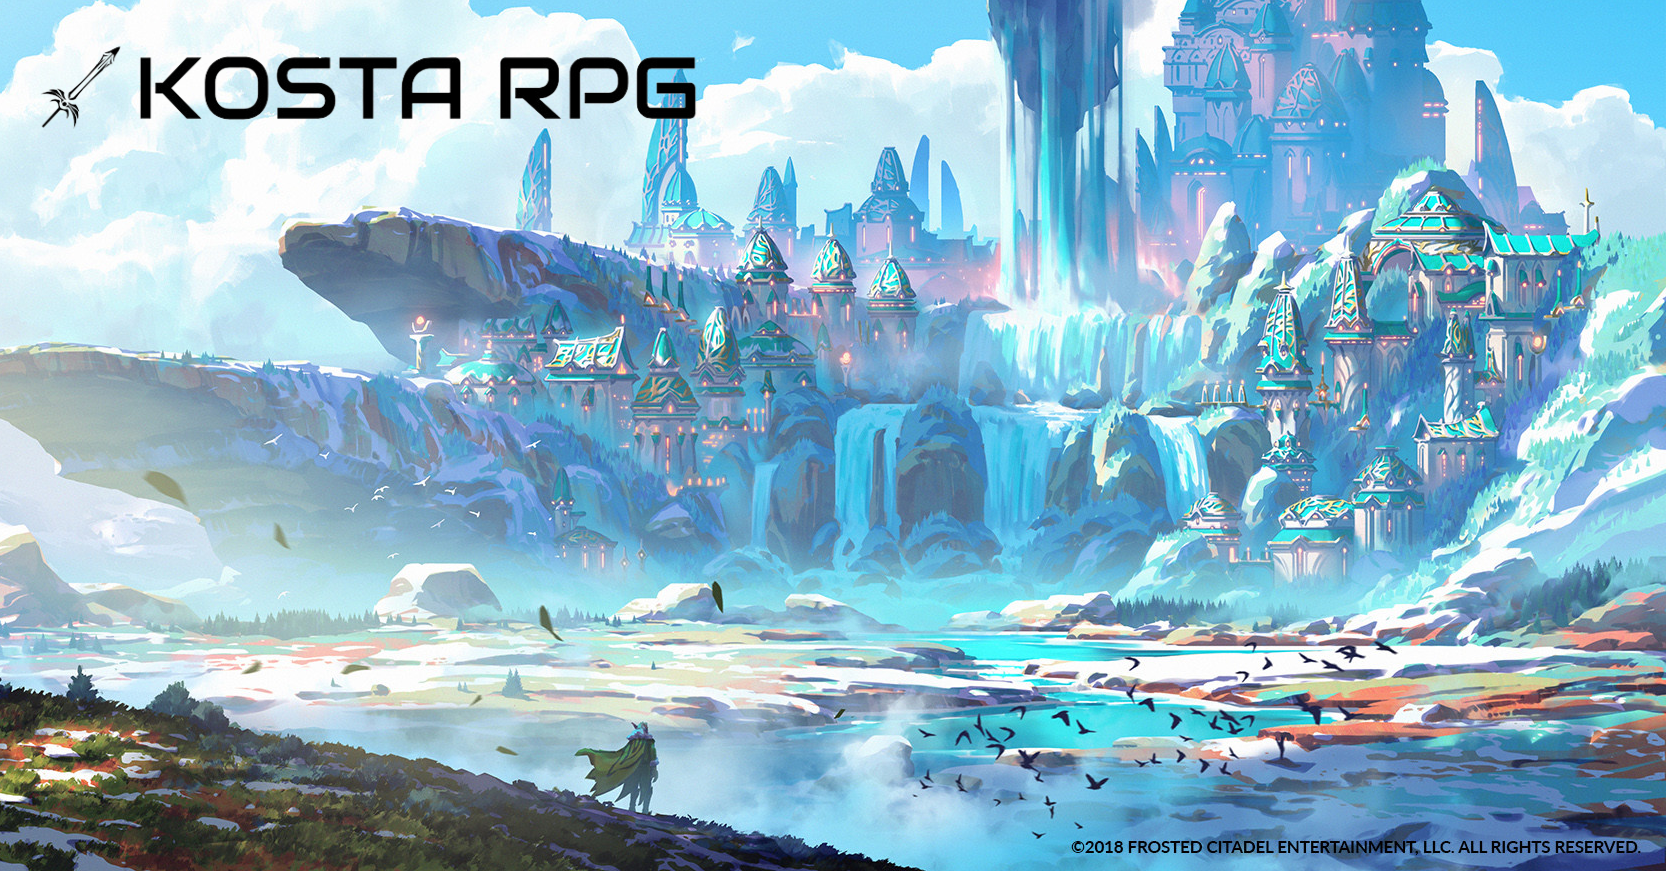
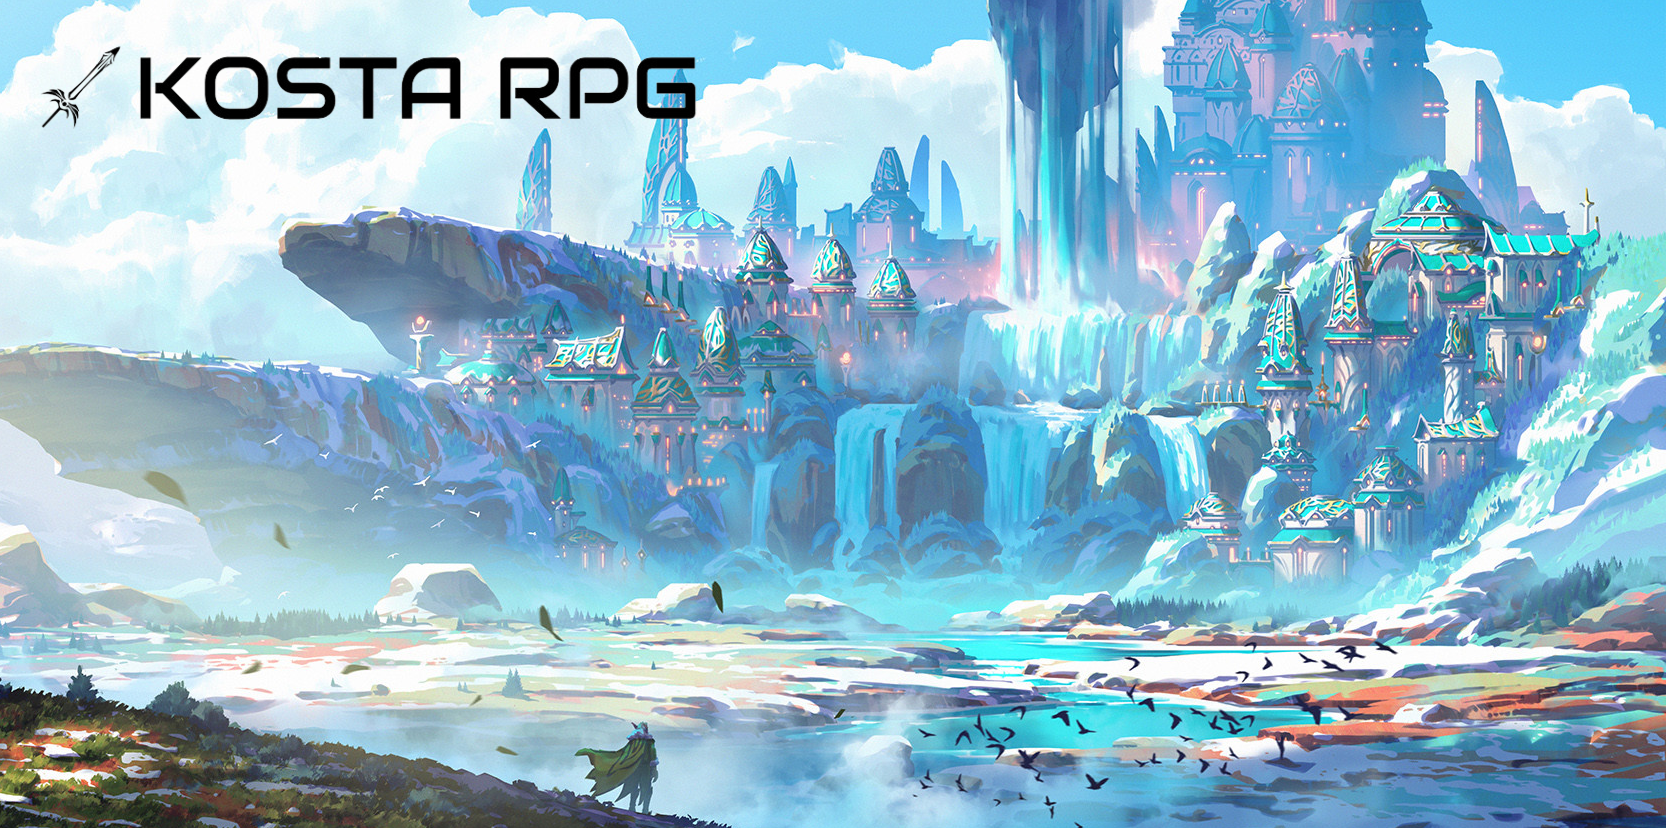
#1. 메인배너 사진 교체 및 크기조정

diff --git a/Kosta277_Team03_01/src/프로젝트 UI구현/main.html b/Kosta277_Team03_01/src/프로젝트 UI구현/main.html
@@ -4,19 +4,24 @@
   <meta name="viewport" content="width=device-width, initial-scale=1.0">
   <link rel="stylesheet" href="style.css">
   <title>KOSTA RPG</title>
+  <style>
+    	img{width: 100%; height: 100%;}
+  </style>
 </head>
   <body>
     <div class="board_wrap">
       
       <div class="board_header">
-        <div><a href="main.html">KOSTA RPG</a></div>
+        <div><a href="main.html"><img src="./image/kosta_rpg_logo_6.png" alt="KOSTA RPG"
+        ></a></div>
         <div style="float: right">
           <div><a href="join.html">회원가입</a></div>
           <div><a href="login.html">로그인</a></div>
         </div>
       </div>
       
-      <div class="board_banner">KOSTA RPG</div>
+      <div class="board_banner"><img src="./image/kosta_rpg_banner_3.png" alt="KOSTA RPG"
+        ></div>
       
       <div class="container_wrap">
         <div class="container_title">

diff --git a/Kosta277_Team03_01/src/프로젝트 UI구현/style.css b/Kosta277_Team03_01/src/프로젝트 UI구현/style.css
@@ -23,27 +23,27 @@ a {
 	width: 1300px;
 }
 
-.board_header > div {
+.board_header > div > a {
   display: inline-block;
   margin-bottom: 15px;	
+  width: 347px;
+  height: 50px;
+  border: 1px solid black;
+  background-color: #eeeeee;
+}
+
+.board_header > div {
+  display: inline-block;
 }
 
 .board_header > div > div {
   display: inline-block;
-}
-
-.board_header > div a {
   border: 1px solid black;
-  padding: 0 20px;
   background-color: #eeeeee;
 }
 
 .board_banner{
-  border: 1px solid black;
-  text-align: center;
-  padding: 80px;
-  font-size: 3em;
-  background-color: #eeeeee;
+	height: 548px;
 }
 
 .container {
